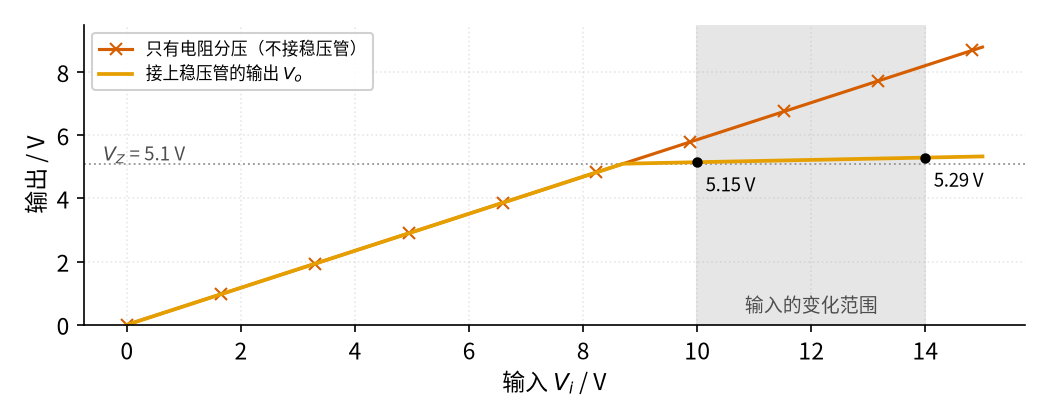
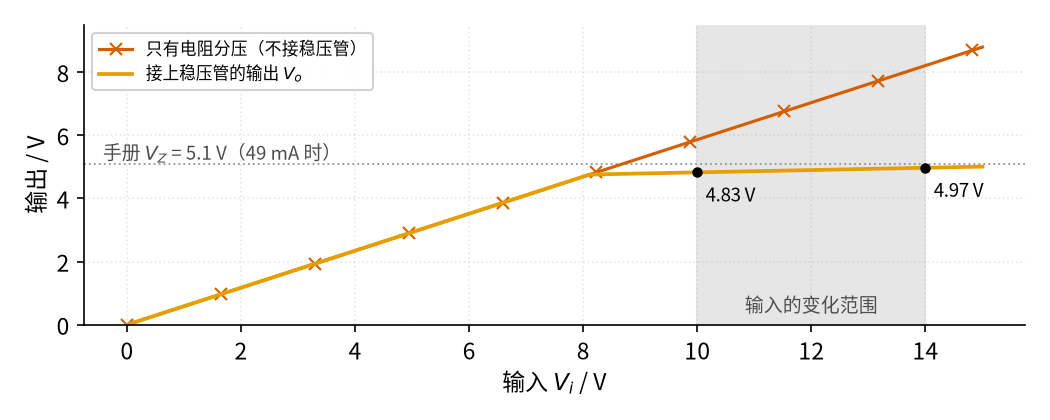
fix: 稳压管稳压 复核修改

Changed region(s): [[0.5486, 0.3405, 0.9448, 0.4952], [0.0914, 0.3405, 0.3048, 0.4024]]

diff --git a/code/figs/10_figs.py b/code/figs/10_figs.py
@@ -21,7 +21,7 @@ def p1_1():
         d += elm.Dot().at((6.5, 3))
         d += elm.Resistor().endpoints((6.5, 3), (6.5, 0)).label("$R_L$\n负载", loc="bottom")
         d += elm.Line().endpoints((6.5, 3), (8.5, 3))
-        d += elm.Dot(open=True).at((8.5, 3)).label("$V_o$ ≈ 5.1 V", loc="right")
+        d += elm.Dot(open=True).at((8.5, 3)).label("$V_o$ ≈ 5 V", loc="right")
         d += elm.Line().endpoints((0, 0), (8.5, 0))
         d += elm.Dot().at((3.5, 0))
         d += elm.Dot().at((6.5, 0))

diff --git a/10-zener-regulator/page2.md b/10-zener-regulator/page2.md
@@ -7,15 +7,19 @@
 
 ## 本页要解决的问题
 
-直觉篇给出了几个结果：输入变 4 V、输出只变 146 mV；1 V 纹波变成 36.5 mV；负载超过约 27 mA 就失去稳压。这一页要回答：这些数字怎么算出来？限流电阻 R 的取值范围怎么定？负载要上百毫安时怎么办？
+直觉篇给出了几个结果：输入变 4 V、输出只变 146 mV；1 V 纹波变成 36.5 mV；负载超过约 29 mA 就失去稳压；输出比标称的 5.1 V 略低。这一页要回答：这些数字怎么算出来？限流电阻 R 的取值范围怎么定？负载要上百毫安时怎么办？
 
 ## 1. 两个工具：节点电流定律 + 稳压管模型
 
-稳压管沿用 P2 page2 的折线模型：反向电压还没到 $V_Z$ 时不导电；击穿以后
+稳压管沿用 P2 page2 的折线模型。手册上的 $V_Z$ 是在测试电流 $I_{ZT}$ 下量出来的，击穿以后
 
-$$V_o = V_Z + r_Z I_Z$$
+$$V_o = V_Z + r_Z \thinspace (I_Z - I_{ZT})$$
 
-1N4733A 取 $V_Z$ = 5.1 V、 $r_Z$ = 7 Ω。输出节点上的电流满足
+1N4733A 取 $V_Z$ = 5.1 V（ $I_{ZT}$ = 49 mA）、 $r_Z$ = 7 Ω。为了好算，把两个常数合并：令 $V_{Z0} = V_Z - r_Z I_{ZT}$ = 5.1 − 7 × 0.049 ≈ 4.757 V，模型就变成
+
+$$V_o = V_{Z0} + r_Z I_Z$$
+
+$V_{Z0}$ 是把折线延长到 $I_Z$ = 0 处的电压，可以把它当作「击穿起点」：反向电压没到 $V_{Z0}$ 时稳压管不导电。本节主例里 $I_Z$ 一直不超过 49 mA，所以输出总比 5.1 V 低一点，这正是直觉篇看到的 4.8–5.0 V。输出节点上的电流满足
 
 $$I_R = \frac{V_i - V_o}{R} = I_Z + I_L$$
 
@@ -23,25 +27,27 @@ $$I_R = \frac{V_i - V_o}{R} = I_Z + I_L$$
 
 ## 2. 输入变化：R 和 r_Z 组成的分压器
 
-先把负载当作一只电阻 $R_L$ 。稳压管击穿以后，可以看成「一只 $V_Z$ 的电池串一只 $r_Z$ 」。输入变化了 $\Delta V_i$ ，电池那部分不变，变化量只在 R、 $r_Z$ 、 $R_L$ 组成的网络里分配：
+先把负载当作一只电阻 $R_L$ 。稳压管击穿以后，按上面的模型可以看成「一只 $V_{Z0}$ 的电池串一只 $r_Z$ 」。输入变化了 $\Delta V_i$ ，电池那部分不变，变化量只在 R、 $r_Z$ 、 $R_L$ 组成的网络里分配：
 
 $$\frac{\Delta V_o}{\Delta V_i} = \frac{r_Z \parallel R_L}{R + r_Z \parallel R_L}$$
 
 这里 $r_Z \parallel R_L$ 表示两只电阻并联。代入 $r_Z$ = 7 Ω、 $R_L$ = 255 Ω、R = 180 Ω：并联值约 6.81 Ω，比值约 6.81 ÷ 186.8 ≈ 0.0365。1 V 的纹波到输出只剩约 36.5 mV，和直觉篇纹波图的仿真一致。
 
-要点是：**R 越大、 $r_Z$ 越小，抑制纹波的能力越强**。可是 R 又不能随便加大，下一节就会看到原因。顺带一提，ESP 的稳压电路文章里有一个类似的仿真：19.4 V 输入、300 mVpp 纹波，经稳压管后输出 15.1 V、纹波 16 mVpp。
+为什么可以不管电池？设想把同一个电路算两次：一次输入 $V_i$ ，一次输入 $V_i + \Delta V_i$ 。两次的电池电压都是 4.757 V，电路里又只有电阻和电池（没有平方之类的弯曲关系），所以两次的节点方程相减时，电池那一项正好抵消，剩下的就是「只有 $\Delta V_i$ 、电池换成导线」的电路。前提是两次计算里稳压管都处在击穿状态，模型都是同一条直线。用数字验证：负载 255 Ω 时，输入 10 V 算得输出 4.8257 V，输入 11 V 算得 4.8622 V，差 36.5 mV，正好等于上面的比值 0.0365 乘 1 V（ `code/10_sim.py` 打印的「叠加验证」一行）。
+
+要点是：**R 越大、 $r_Z$ 越小，抑制纹波的能力越强**。可是 R 又不能随便加大，第 4 节就会看到原因。顺带一提，ESP 的稳压电路文章里有一个类似的仿真：19.4 V 输入、300 mVpp 纹波，经稳压管后输出 15.1 V、纹波 16 mVpp。
 
 ## 3. 负载变化：电流在稳压管和负载之间「搬家」
 
 再看负载变化。固定输入为最低的 10 V，把负载换成一个从 0 扫到 40 mA 的电流源，结果见图 10-p2-1：
 
-![上图：橙色输出在负载 0 到 27.3 毫安之间从约 5.28 伏缓慢降到 5.1 伏，过了 27.3 毫安的灰色点线后迅速下降；下图：蓝色限流电阻电流几乎是水平线，约 26 到 27 毫安，天蓝色稳压管电流从 26.2 毫安斜着降到 0，红紫色点划线负载电流从 0 斜着上升，三条线在 27.3 毫安处汇合](img/10_p2_1_load.png)
+![上图：橙色输出在负载 0 到 29.2 毫安之间从约 4.95 伏缓慢降到击穿起点 4.76 伏，过了 29.2 毫安的灰色点线后迅速下降；下图：蓝色限流电阻电流几乎是水平线，约 28 到 29 毫安，天蓝色稳压管电流从 28.0 毫安斜着降到 0，红紫色点划线负载电流从 0 斜着上升，三条线在 29.2 毫安处汇合](img/10_p2_1_load.png)
 
 *图 10-p2-1　输入 10 V 时负载从 0 扫到 40 mA：输出（上）和三路电流（下）*
 
-图 10-p2-1 的下图里，蓝色的 $I_R$ 几乎是一条水平线：因为输出电压基本不变，R 两端的电压也基本不变，所以 $I_R$ ≈ (10 − 5.1) ÷ 180 ≈ 27 mA 是个定值。负载拿走的电流（红紫色点划线）越多，留给稳压管的（天蓝色线）就越少，两者之和始终是 $I_R$ 。负载 20 mA 时稳压管还有 7.0 mA，输出 5.149 V；负载到 27.3 mA，稳压管电流降到 0，它退出了工作，输出就沿着 $V_o = V_i - I_L R$ 直线下降，40 mA 时只剩 2.80 V。
+图 10-p2-1 的下图里，蓝色的 $I_R$ 几乎是一条水平线：因为输出电压基本不变，R 两端的电压也基本不变，所以 $I_R$ ≈ (10 − 4.8) ÷ 180 ≈ 29 mA 是个定值。负载拿走的电流（红紫色点划线）越多，留给稳压管的（天蓝色线）就越少，两者之和始终是 $I_R$ 。负载 20 mA 时稳压管还有 8.8 mA，输出 4.819 V；负载到 29.2 mA，稳压管电流降到 0，它退出了工作，输出就沿着 $V_o = V_i - I_L R$ 直线下降，40 mA 时只剩 2.80 V。
 
-负载从 0 加到 20 mA，稳压管电流从 26.2 mA 降到 7.0 mA，少了约 19 mA，输出也跟着降了 7 Ω × 19 mA ≈ 0.13 V。这就是 ESP 文章说「负载变化大时不推荐单用稳压管」的原因：负载的变化全部由稳压管来补偿，补偿量越大，输出动得越多。
+负载从 0 加到 20 mA，稳压管电流从 28.0 mA 降到 8.8 mA，少了约 19 mA，输出也跟着降了 7 Ω × 19 mA ≈ 0.13 V。这就是 ESP 文章说「负载变化大时不推荐单用稳压管」的原因：负载的变化全部由稳压管来补偿，补偿量越大，输出动得越多。
 
 ## 4. 限流电阻怎么取：两个最坏情况
 
@@ -51,28 +57,39 @@ $$\frac{\Delta V_o}{\Delta V_i} = \frac{r_Z \parallel R_L}{R + r_Z \parallel R_L
 
 $$R \le \frac{V_{i,\min} - V_Z}{I_{Z,\min} + I_{L,\max}}$$
 
+式子里直接用手册的 $V_Z$ 而不用更准的输出电压，是偏保守的：实际输出略低于 $V_Z$ ，R 两端的电压更大，能供的电流只会更多。
+
 **下限（保护稳压管）**：最坏情况是输入最高、负载断开，全部电流流过稳压管，功耗 $V_o I_Z$ 不能超过额定功率的一半（P2 page3 的「留一半余量」）：
 
-$$I_Z \approx \frac{V_{i,\max} - V_Z}{R + r_Z}, \qquad V_o I_Z \le \frac{P_Z}{2}$$
+$$I_Z \approx \frac{V_{i,\max} - V_{Z0}}{R + r_Z}, \qquad V_o I_Z \le \frac{P_Z}{2}$$
 
-把主例代入：10–14 V 输入、负载 0–20 mA、 $I_{Z,\min}$ = 5 mA、 $P_Z$ = 1.3 W。上限 (10 − 5.1) ÷ 0.025 ≈ 196 Ω（考虑 $r_Z$ 后仿真得 194 Ω）；下限由仿真得约 74 Ω。取常用值 180 Ω，靠近上限，这样稳压管平时不太热，纹波也压得更狠。最后还要核对 R 本身的功耗：输入 14 V、空载时 R 上约 8.6 V，功耗约 8.6² ÷ 180 ≈ 0.41 W，按两倍余量选 1 W 的电阻。
+这里要用击穿起点 $V_{Z0}$ ：它比 $V_Z$ 低，算出的电流更大，对「保护稳压管」这一边才是保守的。
+
+把主例代入：10–14 V 输入、负载 0–20 mA、 $I_{Z,\min}$ = 5 mA、 $P_Z$ = 1.3 W。上限 (10 − 5.1) ÷ 0.025 ≈ 196 Ω（用精确模型算，下一节的程序得 208 Ω，公式偏保守）。
+
+下限可以先粗估：忽略 $r_Z$ ，把稳压管电压当作 5.1 V，功耗不超过 0.65 W 就要求 $I_Z$ ≤ 0.65 ÷ 5.1 ≈ 127 mA，于是 R ≥ (14 − 5.1) ÷ 0.127 ≈ 70 Ω。再细一点：127 mA 时稳压管电压已经升到 4.757 + 7 × 0.127 ≈ 5.65 V，电流只能到 0.65 ÷ 5.65 ≈ 115 mA，R ≥ (14 − 4.757) ÷ 0.115 − 7 ≈ 73 Ω，和下一节程序的结果一致。粗估差了几欧，所以 R 不要贴着下限取。
+
+取常用值 180 Ω，靠近上限，这样稳压管平时不太热，纹波也压得更狠。最后还要核对 R 本身的功耗：输入 14 V、空载时输出约 5.10 V，R 上约 8.9 V，功耗约 8.9² ÷ 180 ≈ 0.44 W，按两倍余量选 1 W 的电阻。
 
 经验上，ESP 建议稳压管的工作电流取最大电流（额定功率除以 $V_Z$ ）的 10%–50%；维基百科的稳压管词条也写了同样的两个条件：R 要小到让稳压管在最大负载时仍击穿，又要大到让稳压管的功耗不超标。
 
 ## 5. 仿真：自己动手算一遍
 
-下面的程序只用 Python 标准库，按上面的模型算出主例的关键数字。完整的绘图版本在 `code/10_sim.py`。
+下面的程序只用 Python 标准库，按上面的模型算出主例的关键数字，在仓库根目录运行即可。完整的绘图版本在 `code/10_sim.py`。
 
 ```python
-VZ, RZ, R = 5.1, 7.0, 180.0     # 1N4733A 模型（见 P2 page2）和限流电阻
+# 在仓库根目录运行（只用标准库，不读写文件）
+VZ, IZT, RZ, R = 5.1, 0.049, 7.0, 180.0   # 1N4733A：49 mA 时 5.1 V，动态电阻 7 Ω（见 P2 page2）
+VZ0 = VZ - RZ * IZT                       # 击穿起点 ≈ 4.757 V
 
 def node(vin, r, il):
     """输入 vin 经电阻 r 供电，负载取恒定电流 il。返回 (输出电压, 稳压管电流)。"""
     v_off = vin - il * r                      # 假设稳压管不导通
-    if v_off <= VZ:
+    if v_off <= VZ0:
         return max(v_off, 0.0), 0.0
-    v = (vin / r + VZ / RZ - il) / (1 / r + 1 / RZ)
-    return v, (v - VZ) / RZ
+    # 稳压管导通：节点方程 (vin − v)/r = (v − VZ0)/RZ + il，解出 v
+    v = (vin / r + VZ0 / RZ - il) / (1 / r + 1 / RZ)
+    return v, (v - VZ0) / RZ
 
 # 1) 两个最坏情况
 v, iz = node(10.0, R, 0.020)
@@ -87,14 +104,23 @@ while node(10.0, r, 0.020)[1] >= 0.005:
     r += 1
 print(f"R 最大约 {r - 1} Ω")
 
-# 3) 负载加到多少失去稳压
+# 3) R 的下限：从 180 Ω 往下找，直到空载、14 V 时稳压管功耗超过 0.65 W
+r = 180
+while True:
+    v, iz = node(14.0, r - 1, 0.0)
+    if v * iz > 0.65:
+        break
+    r -= 1
+print(f"R 最小约 {r} Ω")
+
+# 4) 负载加到多少失去稳压
 il = 0.0
 while node(10.0, R, il)[1] > 0:
     il += 0.0001
 print(f"输入 10 V 时，负载超过约 {il*1e3:.1f} mA 就失去稳压")
 ```
 
-运行结果应为：最坏 $I_Z$ 7.0 mA、输出 5.149 V；空载最坏功耗 0.26 W（ $I_Z$ 47.6 mA）；R 功耗 0.41 W；R 最大约 194 Ω；负载超过约 27.3 mA 失去稳压。这些数字和 `code/10_sim.py` 打印的一致。
+程序里 `node()` 的那一行公式，就是把节点电流方程 $(V_i - V)/R = (V - V_{Z0})/r_Z + I_L$ 移项解出 V。运行结果应为：最坏 $I_Z$ 8.8 mA、输出 4.819 V；空载最坏功耗 0.25 W（ $I_Z$ 49.4 mA）；R 功耗 0.44 W；R 最大约 208 Ω、最小约 73 Ω；负载超过约 29.2 mA 失去稳压。这些数字和 `code/10_sim.py` 打印的一致。
 
 ## 6. 变体：加一只三极管扩大电流
 
@@ -104,40 +130,40 @@ print(f"输入 10 V 时，负载超过约 {il*1e3:.1f} mA 就失去稳压")
 
 *图 10-p2-2　稳压管 + 射极跟随器：稳压管定基极电压，三极管供负载电流*
 
-分析图 10-p2-2 要用到 P2 讲过的三极管估算规则：导通时 $V_{BE}$ ≈ 0.7 V，集电极电流是基极电流的 β 倍。基极被稳压管钉在约 5.1 V，发射极就比它低约 0.7 V，输出约 4.4 V。负载电流 $I_L$ 从发射极流出，其中只有 $I_L/(\beta+1)$ 来自基极，其余都从集电极直接由电源提供。按 2N3904 的最小 β = 60 估算（见 P2 page3），负载 100 mA 时基极只要 1.64 mA。对稳压管来说，负载变化被缩小了约 61 倍。这种「发射极跟着基极走」的接法叫**射极跟随器**，阅读顺序后面的 [07 射极跟随器 · 直觉篇](../07-emitter-follower/page1.md) 会专门讲它。两种接法带负载的能力对比见图 10-p2-3。
+分析图 10-p2-2 要用到 P2 讲过的三极管估算规则：导通时 $V_{BE}$ ≈ 0.7 V，集电极电流是基极电流的 β 倍。基极被稳压管钉在约 5 V，发射极就比它低约 0.7 V，输出约 4.2–4.4 V。负载电流 $I_L$ 从发射极流出，其中只有 $I_L/(\beta+1)$ 来自基极，其余都从集电极直接由电源提供。β 要按实际电流查手册：onsemi 的 [2N3904 手册](https://www.onsemi.com/pdf/datasheet/2n3904-d.pdf) 给出 $I_C$ = 100 mA 时 $h_{FE}$ （就是 β）最小只有 30，比小电流时低，所以这里按 β = 30 估算，负载 100 mA 时基极要 0.1 ÷ 31 ≈ 3.23 mA。对稳压管来说，负载变化被缩小了约 31 倍。这种「发射极跟着基极走」的接法叫**射极跟随器**，阅读顺序后面的 [07 射极跟随器 · 直觉篇](../07-emitter-follower/page1.md) 会专门讲它。两种接法带负载的能力对比见图 10-p2-3。
 
-![横轴为负载电流 0 到 100 毫安，朱红色带叉的线是只用稳压管时的输出，过了约 27 毫安就迅速下降到 0；橙色线是加三极管后的输出，几乎是水平线，100 毫安时标出 4.572 伏，下面的灰色点线是 4.4 伏参考线](img/10_p2_3_follower.png)
+![横轴为负载电流 0 到 100 毫安，朱红色带叉的线是只用稳压管时的输出，过了约 29 毫安就迅速下降到 0；橙色线是加三极管后的输出，几乎是水平线，100 毫安时标出 4.232 伏，略高于它的灰色点线是 4.4 伏参考线](img/10_p2_3_follower.png)
 
 *图 10-p2-3　同一个 180 Ω、同样的 10 V 输入：加三极管后能带 100 mA*
 
-图 10-p2-3 中，橙色线从空载的 4.583 V 到 100 mA 时的 4.572 V，只降了 11 mV；稳压管电流从 26.2 mA 只降到 24.6 mA。对照朱红色带叉的线，单用稳压管时同样的电阻撑不过 27 mA。输出比灰色点线的 4.4 V 略高，是因为稳压管带着 26 mA 电流，实际电压比 5.1 V 高约 0.18 V。这里把 $V_{BE}$ 当作固定的 0.7 V，真实的三极管电流大时 $V_{BE}$ 会略增，输出会再低一点。
+图 10-p2-3 中，橙色线从空载的 4.253 V 到 100 mA 时的 4.232 V，只降了约 22 mV；稳压管电流从 28.0 mA 只降到 24.9 mA。对照朱红色带叉的线，单用稳压管时同样的电阻撑不过 29 mA。输出比灰色点线的 4.4 V 略低，是因为稳压管只有 25–28 mA，不到测试电流 49 mA，实际电压约 4.95 V，比 5.1 V 低约 0.15 V。这里把 $V_{BE}$ 当作固定的 0.7 V，真实的三极管电流大时 $V_{BE}$ 会略增，输出会再低一点。
 
-代价转移到了三极管身上：输入 12 V、负载 100 mA 时，三极管两端约 7.4 V，功耗约 0.74 W，小信号三极管扛不住，要换功率三极管并加散热片。怎样再加一个放大器把输出调得更准、怎样处理发热，就是后续节点 [08 线性稳压 · 直觉篇](../08-linear-regulator/page1.md) 的内容。
+代价转移到了三极管身上：输入 12 V、负载 100 mA 时，三极管两端约 12 − 4.23 ≈ 7.8 V，功耗约 0.78 W，超过 2N3904 的额定 625 mW，小信号三极管扛不住，要换功率三极管并加散热片。怎样再加一个放大器把输出调得更准、怎样处理发热，就是后续节点 [08 线性稳压 · 直觉篇](../08-linear-regulator/page1.md) 的内容。
 
 ## 7. 例题：从照着做到自己做
 
-**例 1（完整示例）** 输入 10–14 V，要 5.1 V、负载 0–20 mA，用 1N4733A。选 R。
+**例 1（完整示例）** 输入 10–14 V，要 5 V 左右、负载 0–20 mA，用标称 5.1 V 的 1N4733A。选 R。
 
-解：上限 R ≤ (10 − 5.1) ÷ (5 mA + 20 mA) = 196 Ω。取 180 Ω。下限核对：输入 14 V、空载时 $I_Z$ ≈ (14 − 5.1) ÷ (180 + 7) ≈ 47.6 mA，功耗约 5.43 × 0.0476 ≈ 0.26 W，远小于 0.65 W，也远小于 $I_{ZM}$ = 178 mA。R 功耗约 0.41 W，选 1 W。
+解：上限 R ≤ (10 − 5.1) ÷ (5 mA + 20 mA) = 196 Ω。取 180 Ω。下限核对：输入 14 V、空载时 $I_Z$ ≈ (14 − 4.757) ÷ (180 + 7) ≈ 49.4 mA，输出 4.757 + 7 × 0.0494 ≈ 5.10 V，功耗约 5.10 × 0.0494 ≈ 0.25 W，远小于 0.65 W，也远小于 $I_{ZM}$ = 178 mA。R 功耗约 0.44 W，选 1 W。
 
-**例 2（关键步骤留空）** 输入 18–24 V，要 12 V、负载 0–10 mA，用 1N4742A（12 V、1.3 W、 $r_Z$ 约 9 Ω、 $I_{ZM}$ 76 mA）， $I_{Z,\min}$ 取 5 mA。
+**例 2（关键步骤留空）** 输入 18–24 V，要 12 V、负载 0–10 mA，用 1N4742A（12 V 在测试电流 21 mA 下测得、1.3 W、 $r_Z$ 约 9 Ω、 $I_{ZM}$ 76 mA，击穿起点 $V_{Z0}$ = 12 − 9 × 0.021 ≈ 11.81 V）， $I_{Z,\min}$ 取 5 mA。
 
 解：上限 R ≤ (18 − 12) ÷ ( ____ ) = ____ Ω，取常用值 390 Ω。空载、24 V 时 $I_Z$ ≈ ____ mA，功耗约 ____ W，和 0.65 W 比较。R 的功耗约 ____ W。
 
 <details><summary>答案</summary>
 
-上限 R ≤ 6 ÷ (0.005 + 0.010) = 400 Ω，取 390 Ω。空载、24 V 时 $I_Z$ ≈ (24 − 12) ÷ (390 + 9) ≈ 30 mA，功耗约 12.3 × 0.030 ≈ 0.37 W，小于 0.65 W，也小于 $I_{ZM}$ 76 mA。R 上约 11.7 V，功耗约 11.7² ÷ 390 ≈ 0.35 W，选 1 W。
+上限 R ≤ 6 ÷ (0.005 + 0.010) = 400 Ω，取 390 Ω。空载、24 V 时 $I_Z$ ≈ (24 − 11.81) ÷ (390 + 9) ≈ 30.5 mA，输出约 11.81 + 9 × 0.0305 ≈ 12.09 V，功耗约 12.09 × 0.0305 ≈ 0.37 W，小于 0.65 W，也小于 $I_{ZM}$ 76 mA。R 上约 11.9 V，功耗约 11.9² ÷ 390 ≈ 0.36 W，选 1 W。
 
 </details>
 
-**例 3（变体迁移）** 还是 10–14 V 输入、1N4733A，但负载要 0–200 mA，于是加一只 NPN 三极管做射极跟随器，β 按 60 估算。R 取多大？三极管最大功耗多少？
+**例 3（变体迁移）** 还是 10–14 V 输入、1N4733A，但负载要 0–200 mA，于是加一只 NPN 功率三极管做射极跟随器，β 按 60 估算（假设所选功率管在 200 mA 时手册最小 β 为 60，实际要查手册）。R 取多大？三极管最大功耗多少？
 
 <details><summary>答案</summary>
 
-最大基极电流 0.2 ÷ 61 ≈ 3.3 mA。稳压管至少留 5 mA，所以 R ≤ (10 − 5.1) ÷ (5 + 3.3) mA ≈ 590 Ω，取 560 Ω。空载、14 V 时 $I_Z$ ≈ 8.9 ÷ 567 ≈ 15.7 mA，功耗约 0.08 W，稳压管几乎不热。三极管在输入 14 V、输出约 4.4 V、电流 200 mA 时，功耗约 (14 − 4.4) × 0.2 ≈ 1.9 W，必须用功率三极管加散热片。对比：单用稳压管带 200 mA，R 要小到约 24 Ω，空载时稳压管要吃 200 多毫安，早已超过 $I_{ZM}$ 。
+最大基极电流 0.2 ÷ 61 ≈ 3.3 mA。稳压管至少留 5 mA，所以 R ≤ (10 − 5.1) ÷ (5 + 3.3) mA ≈ 590 Ω，取 560 Ω。空载、14 V 时 $I_Z$ ≈ (14 − 4.757) ÷ 567 ≈ 16.3 mA，功耗约 0.08 W，稳压管几乎不热。三极管在输入 14 V、电流 200 mA 时，基极约 4.85 V，输出约 4.15 V，功耗约 (14 − 4.15) × 0.2 ≈ 1.97 W，必须用功率三极管加散热片。对比：单用稳压管带 200 mA，R 要小到约 24 Ω，空载时稳压管要吃 200 多毫安，早已超过 $I_{ZM}$ 。
 
 </details>
 
 ## 小结
 
-稳压管稳压的全部计算只靠两条式子：节点电流 $I_R = I_Z + I_L$ 和稳压管模型 $V_o = V_Z + r_Z I_Z$ 。由此得到 R 的取值窗口：上限保证输入最低、负载最大时稳压管仍有电流，下限保证输入最高、空载时稳压管不过热。纹波按 R 与 $r_Z$ 的分压比缩小。负载大时加一只三极管，稳压管只负责定电压。下一页 [参数与调试篇](page3.md) 会读数据手册、扫描 R 的取值窗口，并看看 R 选错时电路会出什么毛病。
+稳压管稳压的全部计算只靠两条式子：节点电流 $I_R = I_Z + I_L$ 和稳压管模型 $V_o = V_Z + r_Z \thinspace (I_Z - I_{ZT})$ （合并常数后写成 $V_o = V_{Z0} + r_Z I_Z$ ）。由此得到 R 的取值窗口：上限保证输入最低、负载最大时稳压管仍有电流，下限保证输入最高、空载时稳压管不过热。纹波按 R 与 $r_Z$ 的分压比缩小。负载大时加一只三极管，稳压管只负责定电压。下一页 [参数与调试篇](page3.md) 会读数据手册、扫描 R 的取值窗口，并看看 R 选错时电路会出什么毛病。

diff --git a/10-zener-regulator/page3.md b/10-zener-regulator/page3.md
@@ -20,9 +20,9 @@
 | 拐点动态电阻 $Z_{ZK}$ | 550 Ω（1 mA 时） | 电流很小时电压「软」得多，所以 $I_Z$ 要留几毫安以上 |
 | 最大稳压电流 $I_{ZM}$ | 178 mA | 空载最坏情况的 $I_Z$ 要远小于它 |
 | 额定功率 $P_{tot}$ | 1.3 W | 实际功耗留一半余量（见 P2 page3） |
-| 热阻 $R_{thJA}$ | 110 K/W | 功耗乘热阻就是管芯比环境高出的温度 |
+| 热阻 $R_{thJA}$ | 110 K/W | 功耗乘热阻就是管芯比环境高出的温度。K/W 读作「开每瓦」：每消耗 1 W，温度升高多少开尔文（温差 1 K 就是 1 °C） |
 
-两点提醒。第一， $V_Z$ 是在 49 mA 测出来的，本节主例平时只有 7–48 mA，实际电压会比 5.1 V 低一些，拐点附近更低。第二，热阻 110 K/W 意味着主例空载最坏情况的 0.26 W 会让管芯升温约 0.26 × 110 ≈ 29 °C；如果 R 取到下限 74 Ω，功耗 0.65 W，升温约 72 °C，摸上去已经烫手。
+两点提醒。第一， $V_Z$ 是在 49 mA 测出来的，本节主例平时只有约 9–49 mA，实际电压会比 5.1 V 低一些（直觉篇看到的 4.8–5.0 V 就是这个原因），拐点附近更低。第二，热阻 110 K/W 意味着主例空载最坏情况的 0.25 W 会让管芯升温约 0.25 × 110 ≈ 28 °C；如果 R 取到下限 73 Ω，功耗 0.65 W，升温约 72 °C，摸上去已经烫手。
 
 **温度系数**也值得知道（维基百科稳压管词条）：大约 5.6 V 以下的稳压管，温度升高电压略降；5.6 V 以上的，温度升高电压略升；5.6 V 附近两者接近抵消。4.7 V 的稳压管约 −2 mV/°C，和三极管的 $V_{BE}$ 差不多，所以「4.7 V 稳压管 + 射极跟随器」的输出温漂会互相抵消一部分。
 
@@ -30,11 +30,11 @@
 
 把 R 从 40 Ω 扫到 400 Ω，分别看两个最坏情况，结果见图 10-p3-1：
 
-![左图：天蓝色曲线是输入 10 伏、负载 20 毫安时的稳压管电流，随 R 增大而下降，在约 195 欧处穿过 5 毫安的灰色点线；右图：橙色曲线是输入 14 伏、空载时的稳压管功耗，随 R 增大而下降，在 74 欧处穿过 0.65 瓦的灰色点线；两图中 74 到 194 欧的范围用灰色阴影标出，180 欧处有一条竖直的灰色点线](img/10_p3_1_window.png)
+![左图：天蓝色曲线是输入 10 伏、负载 20 毫安时的稳压管电流，随 R 增大而下降，在约 208 欧处穿过 5 毫安的灰色点线；右图：橙色曲线是输入 14 伏、空载时的稳压管功耗，随 R 增大而下降，在 73 欧处穿过 0.65 瓦的灰色点线；两图中 73 到 208 欧的范围用灰色阴影标出，180 欧处有一条竖直的灰色点线](img/10_p3_1_window.png)
 
 *图 10-p3-1　限流电阻的取值窗口：左图定上限，右图定下限*
 
-图 10-p3-1 的灰色阴影就是可用的窗口，74–194 Ω。窗口左边，稳压管在空载、高输入时功耗超过 0.65 W，R = 40 Ω 时已达 1.22 W，接近额定的 1.3 W；窗口右边，输入低、负载重时稳压管电流不足 5 mA，到 245 Ω 左右完全断流。180 Ω 靠近右边界：平时稳压管凉快，纹波抑制也好；但如果市电比设计假设的还低，它会最先失去稳压。
+图 10-p3-1 的灰色阴影就是可用的窗口，73–208 Ω。窗口左边，稳压管在空载、高输入时功耗超过 0.65 W，R = 40 Ω 时已达 1.21 W，接近额定的 1.3 W；这时电流约 197 mA，也已经超过最大稳压电流 178 mA。窗口右边，输入低、负载重时稳压管电流不足 5 mA，到 263 Ω 左右完全断流。180 Ω 靠近右边界：平时稳压管凉快，纹波抑制也好；但如果市电比设计假设的还低，它会最先失去稳压。
 
 窗口的宽窄取决于输入范围和负载范围。输入变化越大、负载变化越大，窗口越窄；窗口消失（上限比下限还小）时，说明单用稳压管已经不合适了，要换成原理与实现篇的三极管扩流电路或 08 的线性稳压。
 
@@ -42,11 +42,11 @@
 
 把 R 从 180 Ω 换成 270 Ω，输入降到市电偏低时的 10–11 V（带 1 V 纹波），负载 20 mA，结果见图 10-p3-2：
 
-![横轴为 0 到 30 毫秒，蓝色锯齿是输入减去 5 伏后的曲线；橙色线基本平直，停在 5.1 伏附近；朱红色带叉的线在每个纹波谷底跟着输入往下掉，最低标出 4.60 伏](img/10_p3_2_r_too_big.png)
+![横轴为 0 到 30 毫秒，蓝色锯齿是输入减去 5 伏后的曲线；橙色线基本平直，停在约 4.84 伏；朱红色带叉的线在每个纹波谷底跟着输入往下掉，最低标出 4.60 伏](img/10_p3_2_r_too_big.png)
 
 *图 10-p3-2　R = 180 Ω（橙色）和 R = 270 Ω（朱红色）在输入偏低时的输出*
 
-图 10-p3-2 中，R = 180 Ω 时输出纹波仍只有 37 mV。R = 270 Ω 时，输入 10 V 时 R 最多只能供 (10 − 5.1) ÷ 270 ≈ 18.1 mA，比负载要的 20 mA 还少。于是在每个纹波谷底，稳压管断流，输出跟着输入往下掉，最低到 4.60 V，纹波变成 513 mV。示波器上看到的现象是：**平时好好的，市电一低（或负载一重）输出就带上了 100 Hz 的锯齿**。
+图 10-p3-2 中，R = 180 Ω 时输出纹波仍只有 37 mV。R = 270 Ω 时，输出至少要在击穿起点 4.76 V 以上稳压管才导通，所以输入 10 V 时 R 最多只能供 (10 − 4.76) ÷ 270 ≈ 19.4 mA，比负载要的 20 mA 还少。于是在每个纹波谷底，稳压管断流，输出跟着输入往下掉，最低到 4.60 V，纹波变成 178 mV，差不多是 180 Ω 时的 5 倍。示波器上看到的现象是：**平时好好的，市电一低（或负载一重）输出就带上了 100 Hz 的锯齿**。
 
 ## 4. 动手实验：用可调电源验证窗口
 
@@ -55,9 +55,9 @@
 
 准备：1N4733A、180 Ω 1 W 电阻、一只 270 Ω 电阻、几只负载电阻（1 kΩ、510 Ω、255 Ω 可以用 240 Ω 加 15 Ω 串联代替）、万用表两只。
 
-1. 按直觉篇的主电路接好 180 Ω 和稳压管，先不接负载。电源从 8 V 慢慢调到 14 V，记录输出。空载时输入一过 5.1 V 稳压管就击穿，应能看到输出从这里开始基本不动，只随电流略涨。
+1. 按直觉篇的主电路接好 180 Ω 和稳压管，先不接负载。电源从 8 V 慢慢调到 14 V，记录输出。空载时输入一过约 4.8 V 稳压管就击穿，应能看到输出从这里开始基本不动，只随电流略涨。
 2. 电源调到 10 V，依次接 1 kΩ、510 Ω、255 Ω 负载，一只表测输出，另一只表串在稳压管支路上测 $I_Z$ 。负载电流加大时 $I_Z$ 应等量减小。
-3. 把 R 换成 270 Ω，重复第 2 步。接 255 Ω 时输出应明显低于 5 V。
+3. 把 R 换成 270 Ω，重复第 2 步。接 255 Ω 时 $I_Z$ 只剩约 0.7 mA（远不到 5 mA，已在拐点附近），输出比第 2 步低；再把电源调到 9.5 V，输出就跟着降到约 4.6 V。
 4. 电源调到 14 V，断开负载，用万用表测稳压管电流，算功耗 $V_o I_Z$ ，和 0.65 W 比较。
 
 实测数字会和仿真有出入：稳压管的实际 $V_Z$ 有 ±5% 的容差，电流小时拐点更软，温度升高后电压也会漂。
@@ -67,37 +67,45 @@
 | 现象 | 可能原因 | 检查方法 | 解决 |
 |---|---|---|---|
 | 输出约 0.7 V | 稳压管接反，工作在正向导通 | 看阴极色环是否朝向正电源 | 调转稳压管 |
-| 稳压管冒烟或很快烧坏 | 没有串限流电阻，稳压管直接接在电源上 | 看电路，量 R 是否被短路 | 一定要串 R；12 V 直接加在 1N4733A 上，电流只受 $r_Z$ 和电源内阻限制，可达约 1 A，远超 $I_{ZM}$ |
+| 稳压管冒烟或很快烧坏 | 没有串限流电阻，稳压管直接接在电源上 | 看电路，量 R 是否被短路 | 一定要串 R；12 V 直接加在 1N4733A 上，电流只受 $r_Z$ 和电源内阻（见 [P1 元件速成 · 原理与实现篇](../P1-components-basics/page2.md) 第七节）限制，可达约 (12 − 4.76) ÷ 7 ≈ 1 A，远超 $I_{ZM}$ |
 | 空载时稳压管烫手 | R 太小，或者输入比设计值高 | 测空载时的 $I_Z$ ，算 $V_o I_Z$ | 按窗口下限加大 R；或换功率更大的稳压管 |
 | 输出偏低，且随负载加重明显下降 | R 太大，或负载电流超出设计值 | 测输入最低时的 $I_Z$ 是否还有几毫安 | 减小 R（在窗口内）；负载太大就加三极管扩流 |
 | 输出带明显的 100 Hz 锯齿 | 纹波谷底失去稳压（见图 10-p3-2），或前级滤波电容太小 | 示波器看谷底处输出是否跟着输入掉 | 加大前级电容（见 06 page3）或减小 R |
-| 输出比 5.1 V 低零点几伏 | 稳压管工作电流太小，处于拐点附近；或容差 | 测 $I_Z$ | 把 $I_Z$ 提到几毫安以上；需要精确值时换基准芯片 |
+| 输出比按模型算出的值（主例约 4.8–5.0 V）还低零点几伏 | 稳压管工作电流太小，处于拐点附近；或容差 | 测 $I_Z$ | 把 $I_Z$ 提到几毫安以上；需要精确值时换基准芯片 |
 | 输出随温度慢慢漂 | 稳压管发热，温度系数造成 | 冷机和热机各测一次 | 降低功耗；选 5.6 V 左右的稳压管 |
-| 输出上有高频噪声 | 稳压管击穿本身会产生噪声，输出端没有电容 | 示波器交流耦合看输出 | 输出端并一只电容（ESP 文章认为必不可少） |
+| 输出上有高频噪声 | 稳压管击穿本身会产生噪声，输出端没有电容 | 示波器用交流耦合（AC 档：只显示电压的变化部分，把直流平均值去掉，小噪声就能放大来看）看输出 | 输出端并一只电容（ESP 文章认为必不可少） |
 
 ## 6. 练习
 
-**练习 1** 主例（10–14 V、0–20 mA、R = 180 Ω）的负载最大值改成 30 mA，R 的上限变成多少？180 Ω 还能用吗？
+**练习 1（易）** 主例（10–14 V、0–20 mA、R = 180 Ω）的负载最大值改成 30 mA，R 的上限变成多少？180 Ω 还能用吗？
 
 <details><summary>答案</summary>
 
-上限 R ≤ (10 − 5.1) ÷ (0.005 + 0.030) = 140 Ω，180 Ω 超出上限，不能用。由原理与实现篇的负载扫描图也能看出，180 Ω 在输入 10 V 时只能撑到约 27.3 mA。改用 120 Ω：空载、14 V 时 $I_Z$ ≈ 8.9 ÷ 127 ≈ 70 mA，功耗约 5.59 × 0.070 ≈ 0.39 W，仍小于 0.65 W，可以用。
+上限 R ≤ (10 − 5.1) ÷ (0.005 + 0.030) = 140 Ω，180 Ω 超出上限，不能用。由原理与实现篇的负载扫描图也能看出，180 Ω 在输入 10 V 时只能撑到约 29.2 mA。改用 120 Ω：空载、14 V 时 $I_Z$ ≈ (14 − 4.757) ÷ 127 ≈ 72.8 mA，输出约 4.757 + 7 × 0.0728 ≈ 5.27 V，功耗约 5.27 × 0.0728 ≈ 0.38 W，仍小于 0.65 W，可以用。
 
 </details>
 
-**练习 2** 一个同学用 1N4733A 和 47 Ω 电阻接在 14 V 上，没接负载。估算稳压管的电流和功耗，会出什么问题？
+**练习 2（易）** 一个同学用 1N4733A 和 47 Ω 电阻接在 14 V 上，没接负载。估算稳压管的电流和功耗，会出什么问题？
 
 <details><summary>答案</summary>
 
-$I_Z$ ≈ (14 − 5.1) ÷ (47 + 7) ≈ 165 mA，输出约 5.1 + 7 × 0.165 ≈ 6.25 V，功耗约 6.25 × 0.165 ≈ 1.03 W。电流没超过 $I_{ZM}$ 178 mA，功耗也没超过 1.3 W，但远超一半余量 0.65 W；按热阻 110 K/W 估算，管芯升温约 113 °C，长期这样用寿命会很短。R 至少要取到窗口下限约 74 Ω。
+$I_Z$ ≈ (14 − 4.757) ÷ (47 + 7) ≈ 171 mA，输出约 4.757 + 7 × 0.171 ≈ 5.96 V，功耗约 5.96 × 0.171 ≈ 1.02 W。电流离 $I_{ZM}$ 178 mA 只差一点，功耗也没超过 1.3 W，但远超一半余量 0.65 W；按热阻 110 K/W 估算，管芯升温约 112 °C，长期这样用寿命会很短。R 至少要取到窗口下限约 73 Ω。
 
 </details>
 
-**练习 3** 用 5.6 V 和 4.7 V 两种稳压管各做一个「稳压管 + 射极跟随器」，哪一种输出的温漂更小？为什么？
+**练习 3（中）** 用 5.6 V 和 4.7 V 两种稳压管各做一个「稳压管 + 射极跟随器」，哪一种输出的温漂更小？为什么？
 
 <details><summary>答案</summary>
 
 4.7 V 那一种。射极跟随器的输出是 $V_Z - V_{BE}$ 。 $V_{BE}$ 约 −2 mV/°C，温度升高时它变小，输出就上升；4.7 V 稳压管也约 −2 mV/°C，温度升高时 $V_Z$ 变小，输出下降。两者互相抵消。5.6 V 稳压管自身温漂接近 0，但 $V_{BE}$ 的漂移就没有东西去抵消了。
+
+</details>
+
+**练习 4（中，变体迁移）** 把主例换成 12 V 的电路：1N4742A（ $r_Z$ 约 9 Ω）、R = 390 Ω、负载电阻 1.2 kΩ，输入带 1 V（峰峰）纹波。输出纹波约多少？如果想把它压到 10 mV 以下，R 至少要多大（假设输入足够高，R 加大后稳压管仍有足够电流）？
+
+<details><summary>答案</summary>
+
+还是原理与实现篇的分压比，只是数字换了： $r_Z \parallel R_L$ = 9 × 1200 ÷ (9 + 1200) ≈ 8.93 Ω，比值 8.93 ÷ (390 + 8.93) ≈ 0.0224，输出纹波约 22 mV（峰峰）。要压到 10 mV 以下，比值要小于 0.01，即 R ≥ 8.93 ÷ 0.01 − 8.93 ≈ 884 Ω，取常用值 910 Ω。代价是 R 加大以后能供的电流变少，输入最低时稳压管可能断流，所以还要按上限公式重新核对；实际电路里更常见的做法是在稳压管前面先多加一级电阻和电容组成的滤波，或者直接换 [08 线性稳压 · 直觉篇](../08-linear-regulator/page1.md) 的电路。数字由 `code/10_sim.py` 打印的「练习 4」一行核对。
 
 </details>
 

diff --git a/10-zener-regulator/page1.md b/10-zener-regulator/page1.md
@@ -13,7 +13,7 @@
 
 ## 一、电路：一只电阻 + 一只稳压管
 
-下面的图 10-p1-1 是本节的主电路。输入接 06 那样的整流滤波输出，电压在 10 V 到 14 V 之间变化；输出要一个约 5.1 V 的电压，负载最多取 20 mA。
+下面的图 10-p1-1 是本节的主电路。输入接 06 那样的整流滤波输出，电压在 10 V 到 14 V 之间变化；输出要一个 5 V 左右的电压（用标称 5.1 V 的稳压管），负载最多取 20 mA。
 
 ![输入电源经一只 180 欧的限流电阻接到节点，节点向下并联一只阴极朝上的 1N4733A 稳压管和负载电阻，节点向右引出输出端，下方标注 I_R 等于 I_Z 加 I_L](img/10_p1_1_shunt.png)
 
@@ -32,11 +32,13 @@
 
 先看输入从 0 慢慢升到 15 V 时输出怎么变，结果画在图 10-p1-2 里。负载用一只 255 Ω 的电阻，5.1 V 时正好取 20 mA。
 
-![横轴是输入电压，朱红色带叉的直线是只用电阻分压时的输出，一直跟着输入上涨；橙色线在 8.7 伏以前与它重合，之后几乎变平，停在 5.1 伏附近；10 到 14 伏的输入范围用灰色阴影标出，两端点分别标 5.15 伏和 5.29 伏](img/10_p1_2_line.png)
+![横轴是输入电压，朱红色带叉的直线是只用电阻分压时的输出，一直跟着输入上涨；橙色线在 8.1 伏以前与它重合，之后几乎变平，停在 4.8 到 5.0 伏之间，略低于标着手册 V_Z 5.1 伏的灰色点线；10 到 14 伏的输入范围用灰色阴影标出，两端点分别标 4.83 伏和 4.97 伏](img/10_p1_2_line.png)
 
-*图 10-p1-2　输入从 0 涨到 15 V：接上稳压管后，输出被「钉」在 5.1 V 附近*
+*图 10-p1-2　输入从 0 涨到 15 V：接上稳压管后，输出被「钉」在 5 V 左右*
 
-从图 10-p1-2 可以看出，输入较低时，电阻和负载分压得到的电压还不到 5.1 V，稳压管没有击穿，相当于不存在，橙色线和朱红色带叉的线重合。输入超过约 8.7 V 以后，稳压管开始导通，橙色线一下子变平。在灰色阴影标出的 10–14 V 范围里，输入变了 4 V，输出只从 5.15 V 变到 5.29 V，只变了 146 mV。对照朱红色带叉的线：如果不接稳压管，同样的输入变化会让输出从 5.86 V 变到 8.21 V。
+从图 10-p1-2 可以看出，输入较低时，电阻和负载分压得到的电压还不到稳压管的击穿起点（约 4.76 V），稳压管没有击穿，相当于不存在，橙色线和朱红色带叉的线重合。输入超过约 8.1 V 以后，稳压管开始导通，橙色线一下子变平。在灰色阴影标出的 10–14 V 范围里，输入变了 4 V，输出只从 4.83 V 变到 4.97 V，只变了 146 mV。对照朱红色带叉的线：如果不接稳压管，同样的输入变化会让输出从 5.86 V 变到 8.21 V。
+
+你可能注意到：输出比稳压管标的 5.1 V 低了一两百毫伏。这不是算错了。手册上的 5.1 V 是在 49 mA 的**测试电流**下量出来的（见 P2 page2），而这个电路里稳压管只分到约 10–30 mA，电流比测试电流小，电压就略低一点。
 
 输出并不是绝对不变。P2 page2 讲过，稳压管击穿以后还有一点**动态电阻** $r_Z$ （1N4733A 约 7 Ω）：电流多 10 mA，电压就多约 70 mV。输入升高时稳压管电流变大，输出就跟着略涨一点。
 
@@ -44,18 +46,18 @@
 
 06 的输出不是一条直线，而是带锯齿状纹波的。把一个平均 12 V、纹波 1 V（峰峰）的输入加到同一个电路上，得到图 10-p1-3：
 
-![上图：蓝色锯齿状输入在 11.5 到 12.5 伏之间起伏；下图：纵轴放大后的橙色输出，形状和输入一样，但起伏只有 36.5 毫伏，平均值约 5.22 伏](img/10_p1_3_ripple.png)
+![上图：蓝色锯齿状输入在 11.5 到 12.5 伏之间起伏；下图：纵轴放大后的橙色输出，形状和输入一样，但起伏只有 36.5 毫伏，平均值约 4.90 伏](img/10_p1_3_ripple.png)
 
 *图 10-p1-3　带 1 V 纹波的输入（上）和输出（下，纵轴放大）*
 
-图 10-p1-3 里，输出的波形形状和输入完全一样，但幅度只剩 36.5 mV，约为输入纹波的二十七分之一。注意下图的纵轴是放大过的，只显示 5.18–5.26 V 这一小段；如果和上图用同样的刻度，橙色线看起来就是一条平线。为什么正好是这个比例？原因在于 R 和稳压管的动态电阻组成了一个分压器，原理与实现篇会推出这个比例。
+图 10-p1-3 里，输出的波形形状和输入完全一样，但幅度只剩 36.5 mV，约为输入纹波的二十七分之一。注意下图的纵轴是放大过的，只显示 4.86–4.94 V 这一小段；如果和上图用同样的刻度，橙色线看起来就是一条平线。为什么正好是这个比例？原因在于 R 和稳压管的动态电阻组成了一个分压器，原理与实现篇会推出这个比例。
 
 ## 四、它的代价
 
 这么简单的电路，代价也很明显：
 
-1. **费电**。输入 12 V、负载 20 mA 时，电路从电源取约 37.6 mA，也就是 0.45 W，负载只得到约 0.10 W，效率约 23%。其余的电都在 R 和稳压管上变成了热。
-2. **负载电流有上限**。进水量是 R 限定的，下游用水超过进水量，溢流口就断流。原理与实现篇会算出：输入最低 10 V 时，这个电路的负载一超过约 27 mA，输出就掉下来。
+1. **费电**。输入 12 V、负载 20 mA 时，电路从电源取约 39.5 mA，也就是 0.47 W，负载只得到约 0.10 W，效率约 21%。其余的电都在 R 和稳压管上变成了热。
+2. **负载电流有上限**。进水量是 R 限定的，下游用水超过进水量，溢流口就断流。原理与实现篇会算出：输入最低 10 V 时，这个电路的负载一超过约 29 mA，输出就掉下来。
 3. **空载时稳压管最累**。负载断开时，全部电流都流过稳压管，它的发热最大。
 
 所以稳压管稳压适合**小电流**场合，几毫安到几十毫安。要更大的电流，就在稳压管后面加一只三极管，这正是原理与实现篇的变体，也是后续节点 08 线性稳压的起点。
@@ -68,4 +70,4 @@
 
 ## 小结
 
-一只限流电阻加一只反向击穿的稳压管，就能把 10–14 V、带纹波的电压变成约 5.1 V 的稳定电压：输入变 4 V，输出只变 146 mV；1 V 的纹波被压到 36.5 mV。代价是费电，而且只能带小负载。下一页 [原理与实现篇](page2.md) 会用节点电流定律和 P2 的稳压管模型，把这些数字一一算出来，并给出限流电阻的取值公式。
+一只限流电阻加一只反向击穿的稳压管，就能把 10–14 V、带纹波的电压变成约 5 V（4.8–5.0 V）的稳定电压：输入变 4 V，输出只变 146 mV；1 V 的纹波被压到 36.5 mV。代价是费电，而且只能带小负载。下一页 [原理与实现篇](page2.md) 会用节点电流定律和 P2 的稳压管模型，把这些数字一一算出来，并给出限流电阻的取值公式。

diff --git a/notes/10-research.md b/notes/10-research.md
@@ -35,5 +35,5 @@
 ## 与前置节点的衔接
 
 - P2 page2：稳压管模型 V = V_Z + r_Z·I_Z，1N4733A 取 V_Z = 5.1 V、r_Z = 7 Ω；I_ZK 1 mA、I_ZM 178 mA、P_Z 1.3 W，「实际功耗 V_Z·I_Z 留一半余量」；三极管 V_BE ≈ 0.7 V、I_C = β·I_B。
-- P2 page3：2N3904 在 50 mA 时 β 最小 60（本节变体按 β = 60 估算）。
+- P2 page3：2N3904 在 50 mA 时 β 最小 60；onsemi 2N3904 手册（https://www.onsemi.com/pdf/datasheet/2n3904-d.pdf，2026-10-23 核对）：I_C = 100 mA、V_CE = 1 V 时 h_FE 最小 30，额定功耗 625 mW。本节变体（100 mA）按 β = 30 估算。
 - 06 page2：桥式整流滤波输出带 100 Hz 纹波，纹波 ΔV ≈ I/(2fC)。
